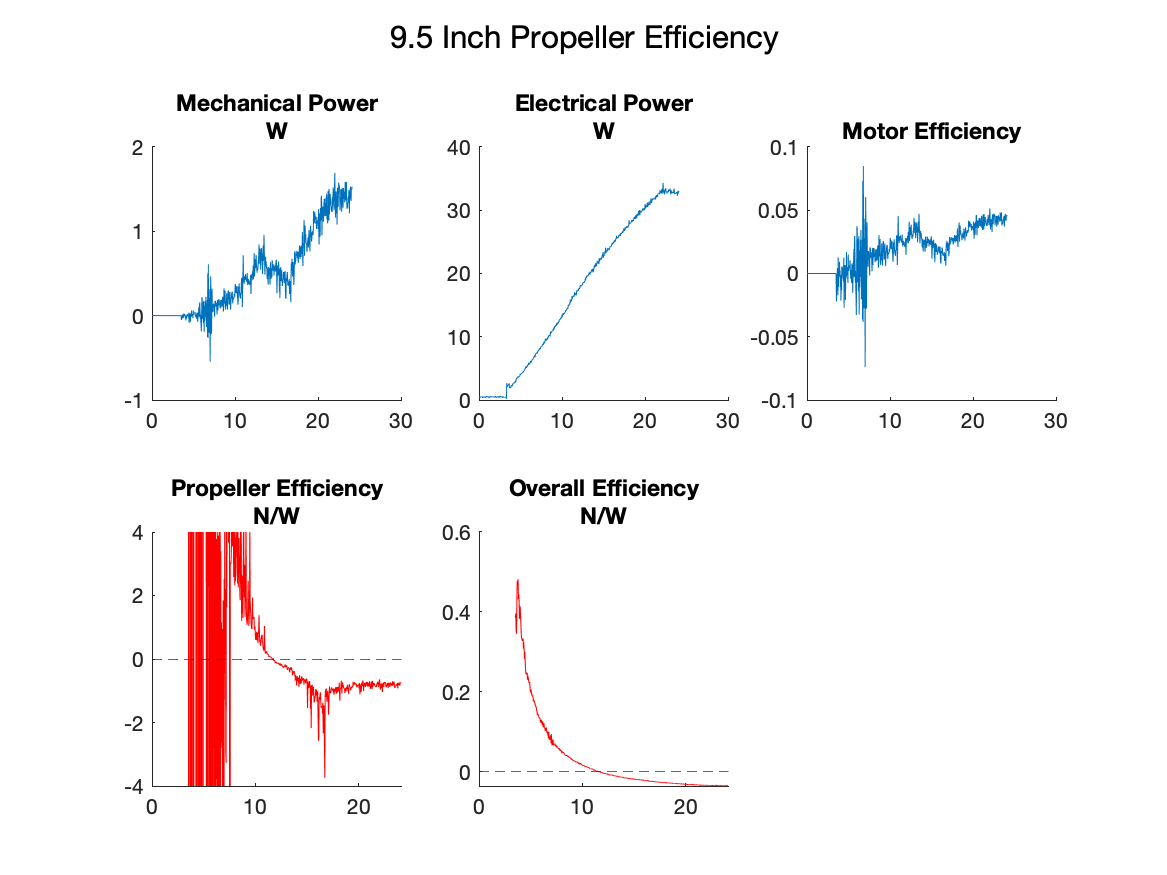
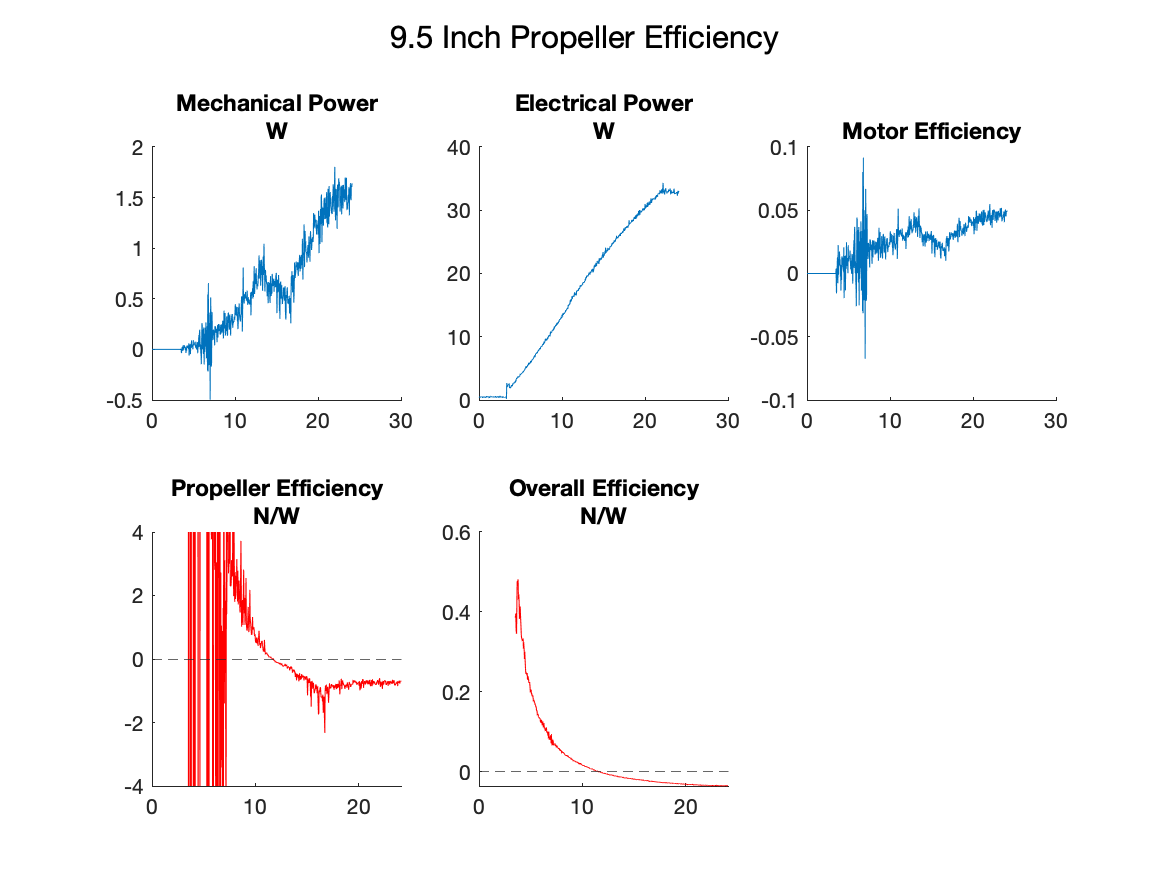
update torque zeroing

diff --git a/analyze_all_static.m b/analyze_all_static.m
@@ -23,7 +23,7 @@ function analyze_all_static()
         arr_cut = arr_in(cut_start:cut_end,:);
         
         time_arr = arr_cut(:,1);
-        Q = arr_cut(:,9) - arr_cut(1,9); % Nm
+        Q = arr_cut(:,9) - arr_in(1,9); % Nm
         T = arr_cut(:,10) * 9.80665; %kgf to N
         V = arr_cut(:,13) .* (2*pi/60); % RPM to rad/s
         Pe = arr_cut(:,15); % W
